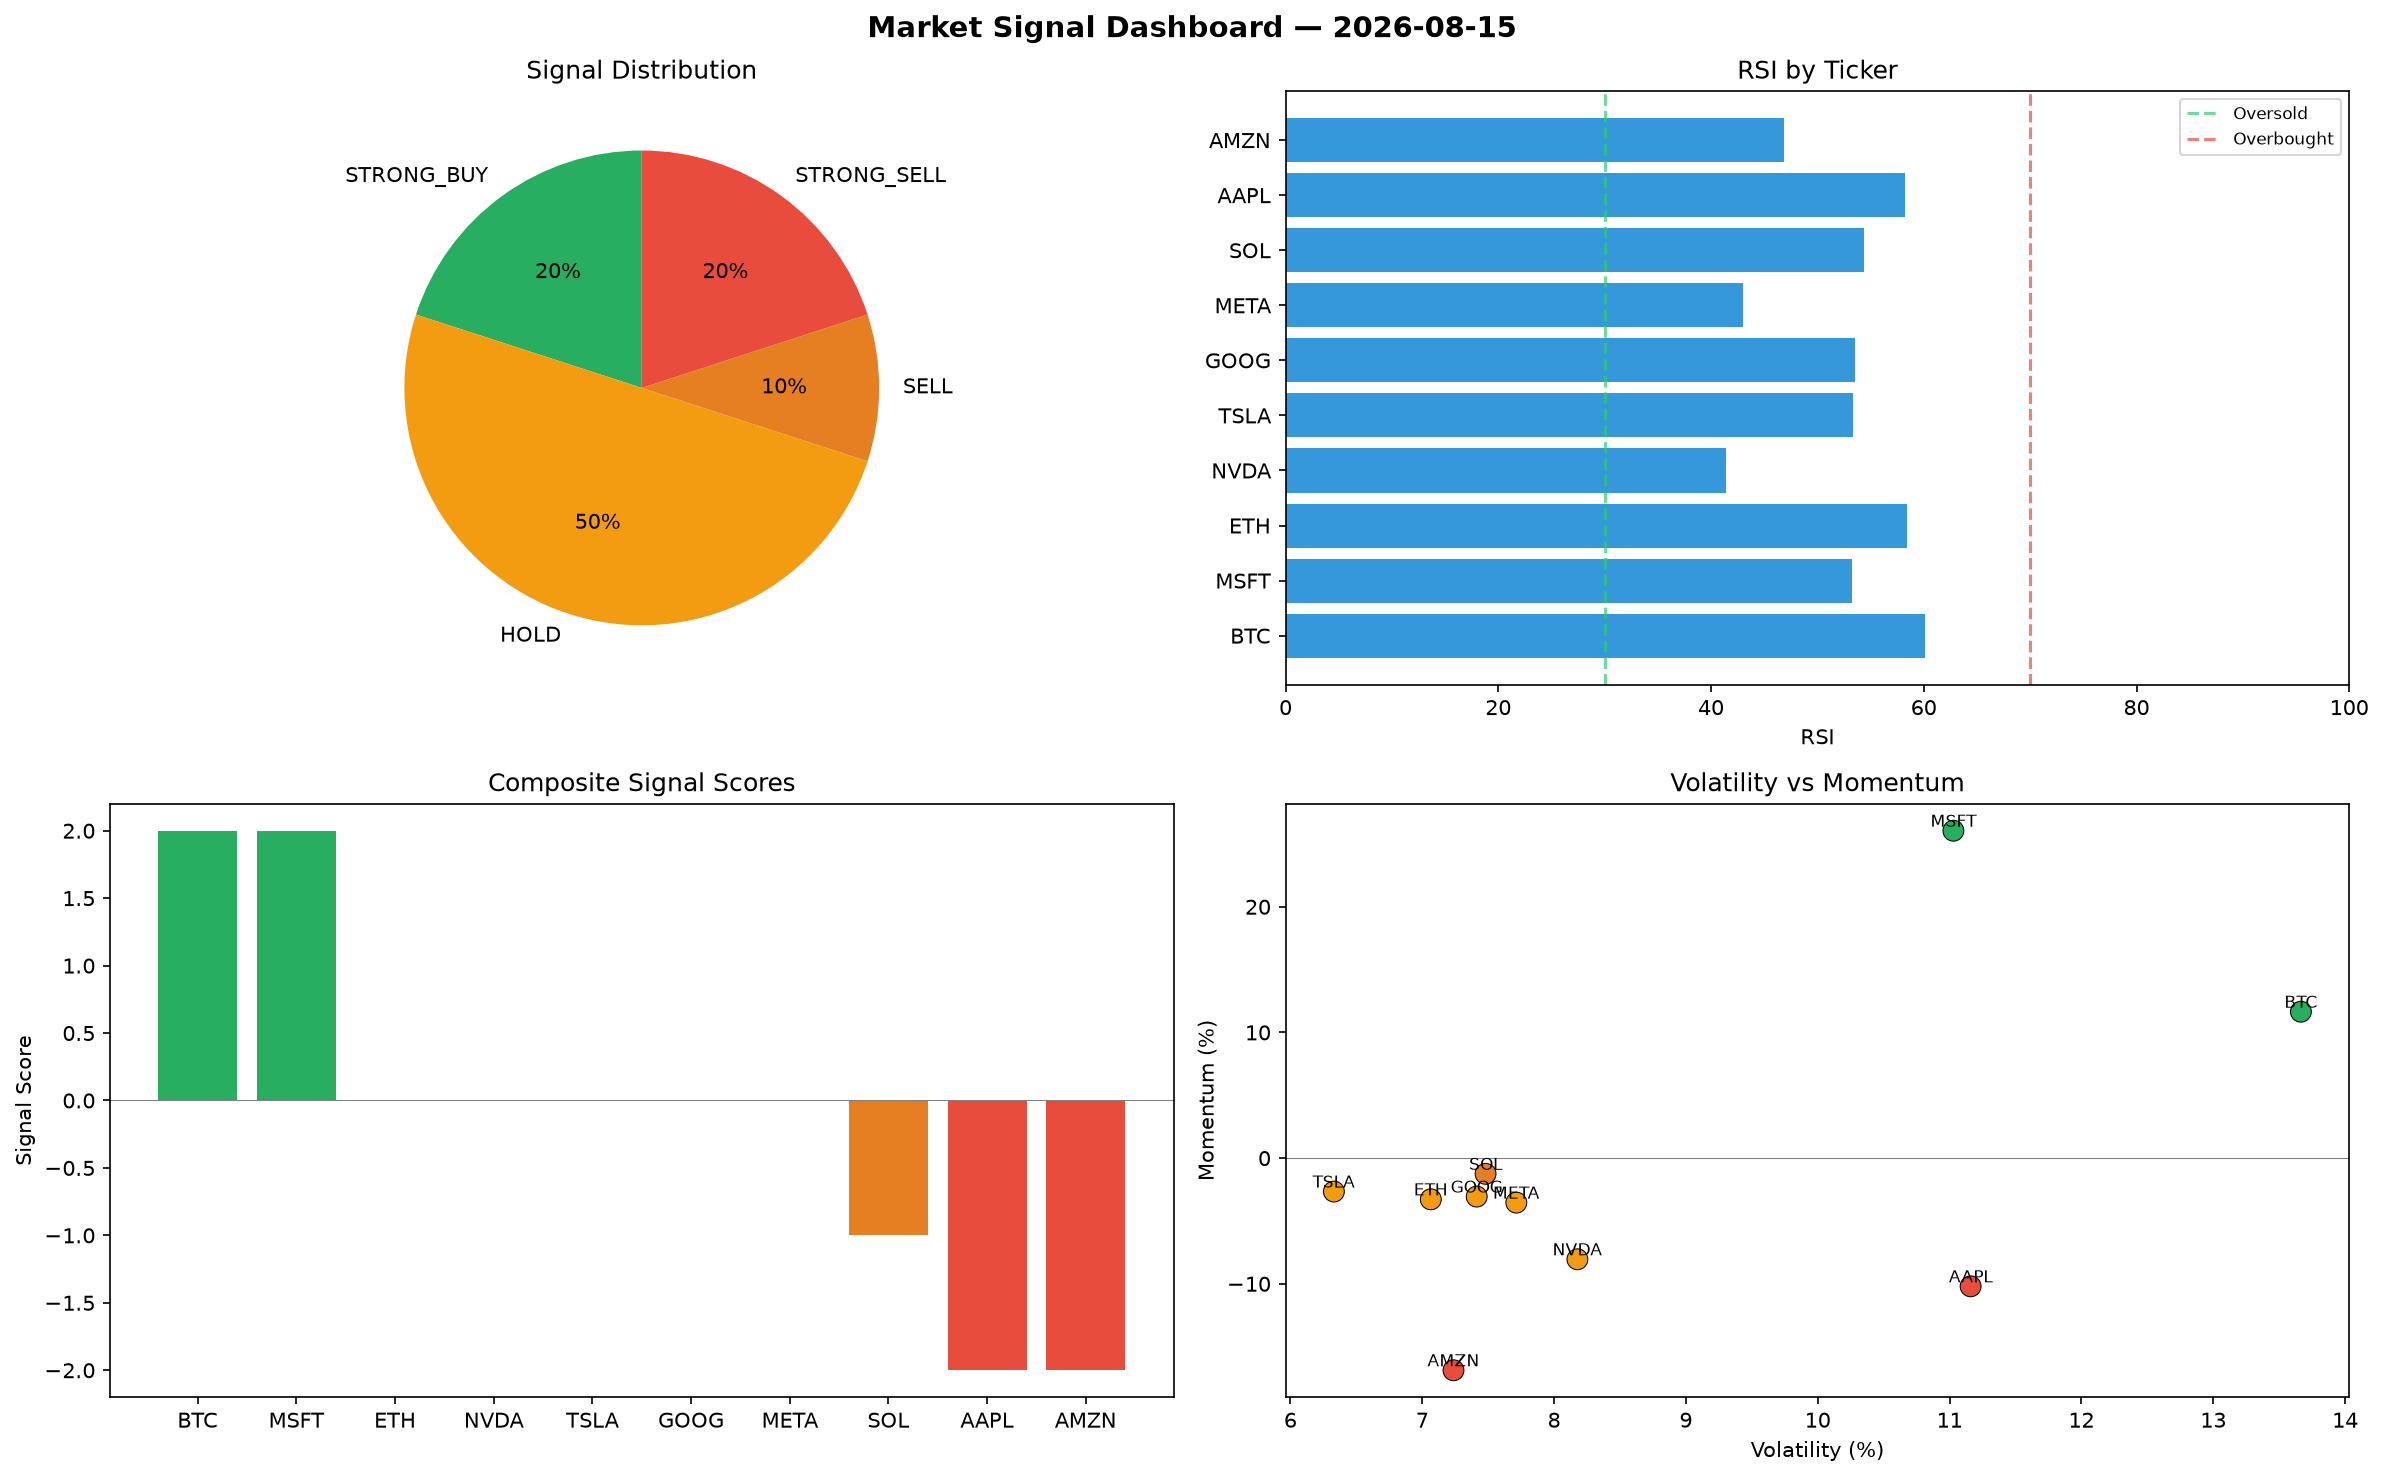
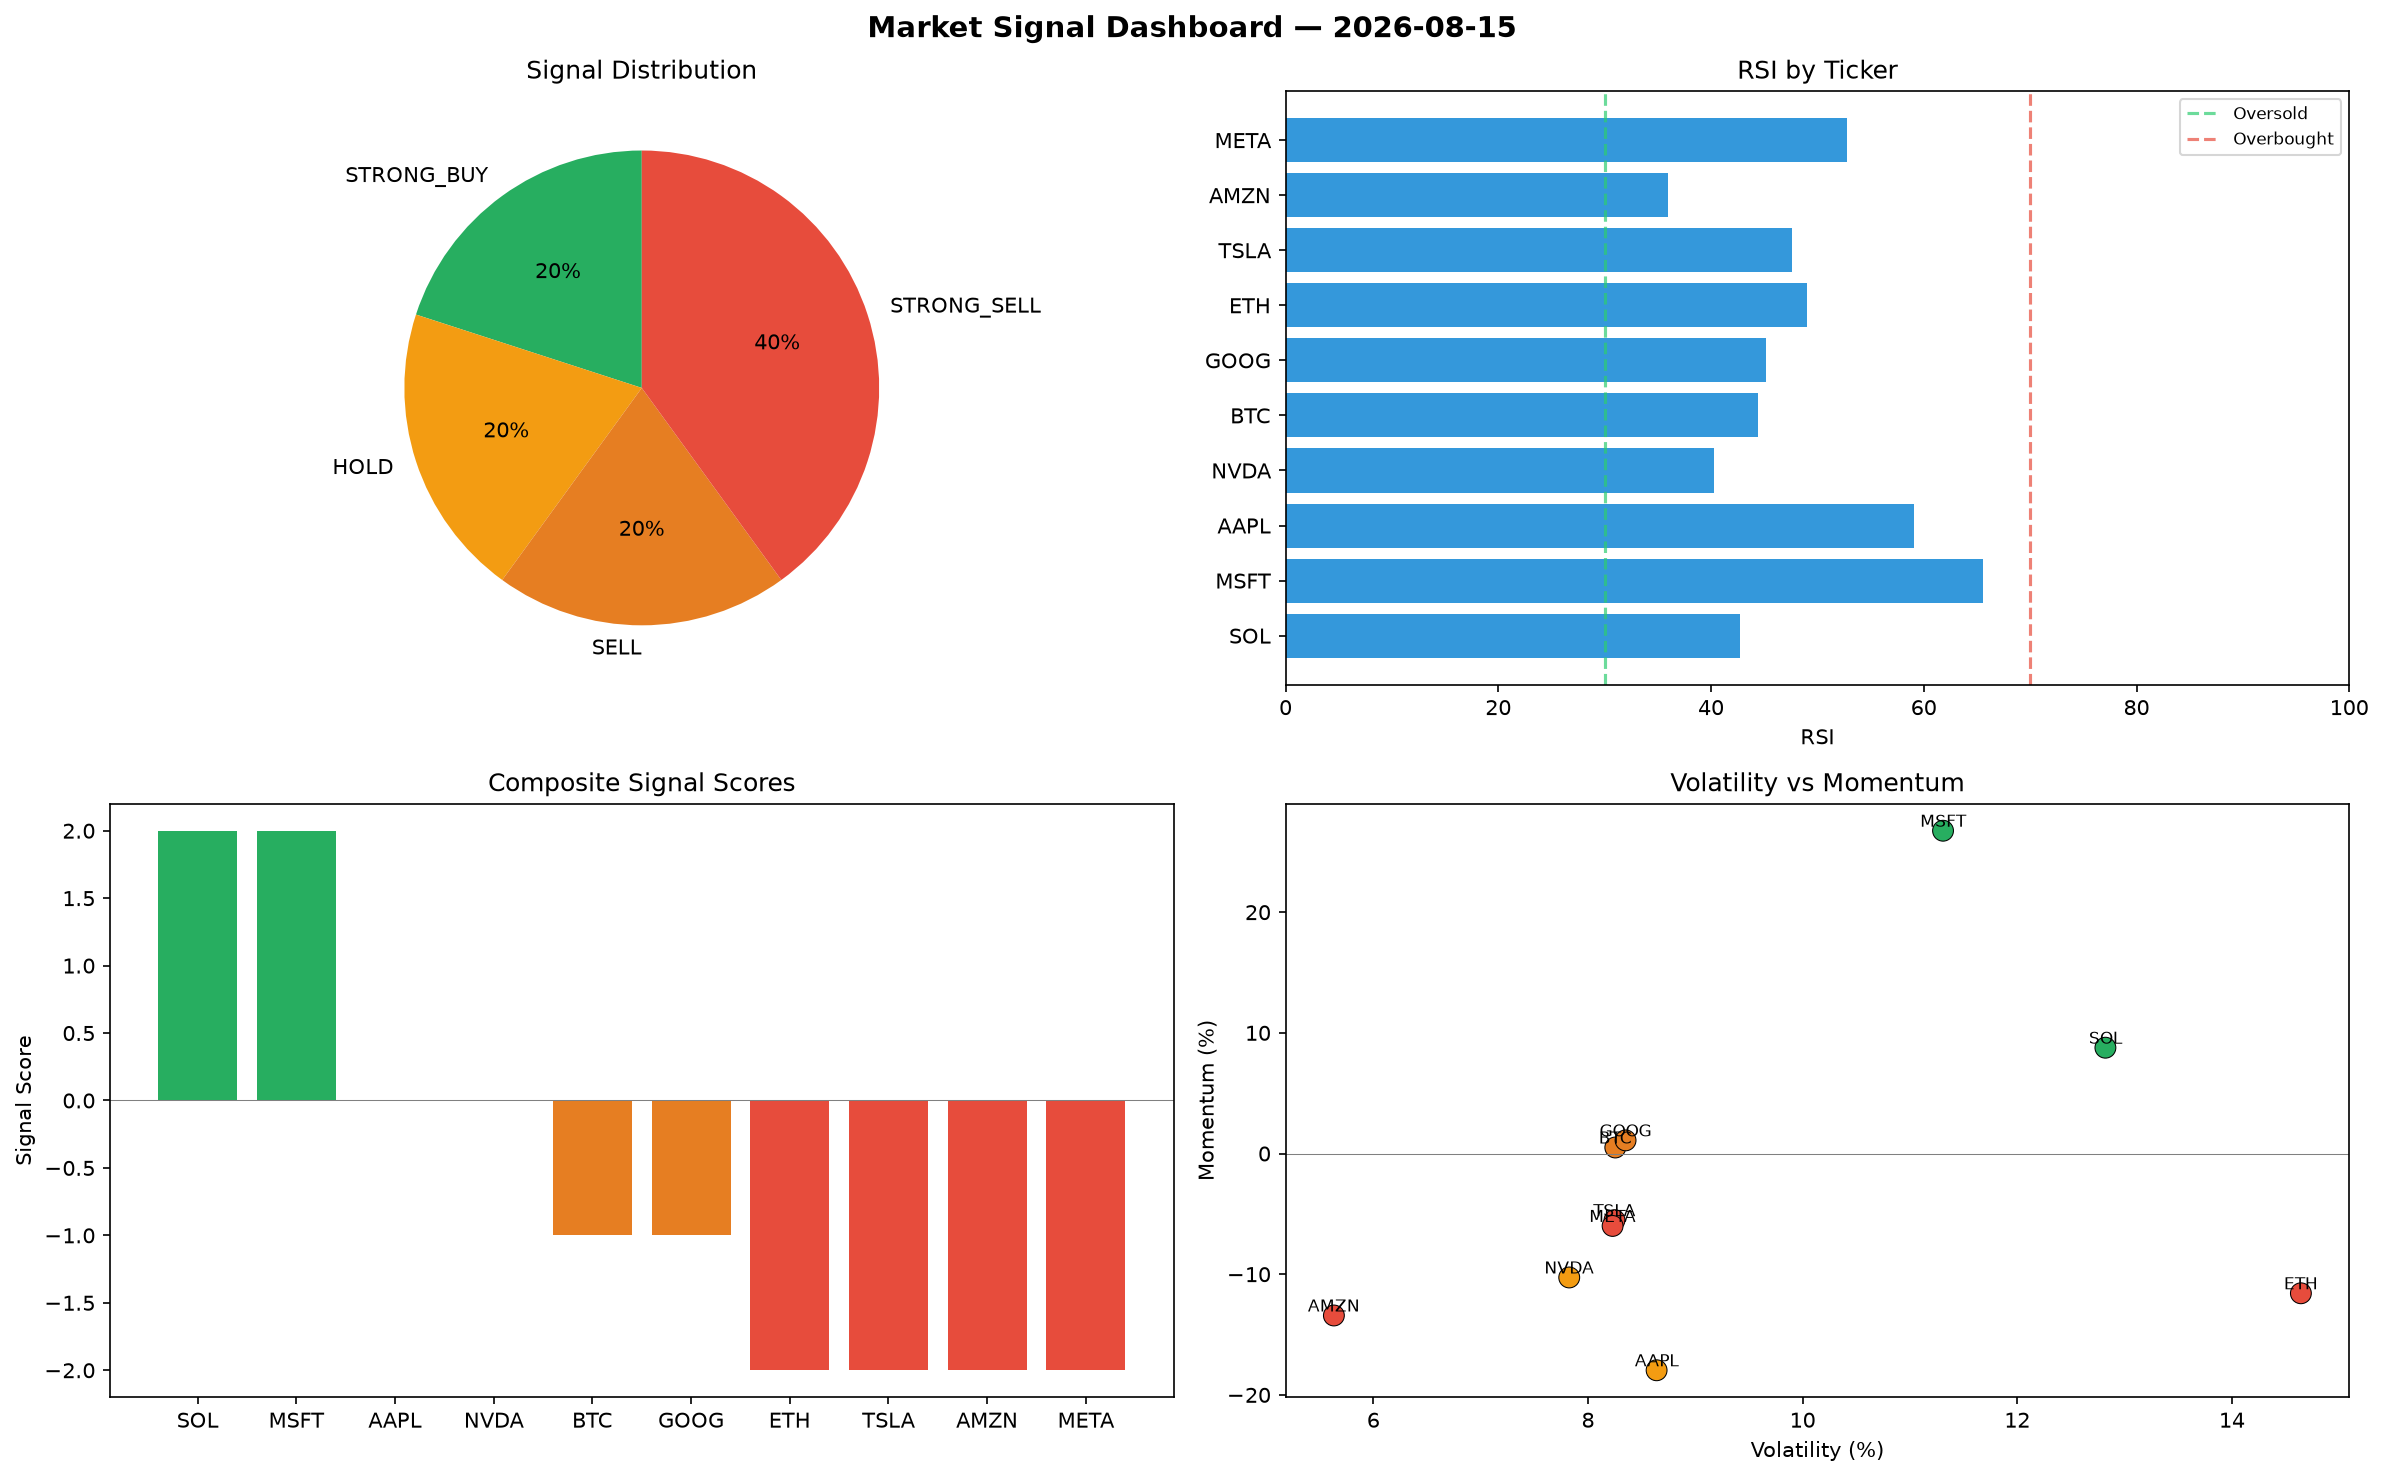
automated-bots: market signals 2026-08-15T08:53

diff --git a/logs/2026-08-15.md b/logs/2026-08-15.md
@@ -1,6 +1,6 @@
 # Market Signal Report — 2026-08-15
 
-**Run ID:** `de2ab59e58` | **Buy:** 2 | **Sell:** 3 | **Hold:** 5
+**Run ID:** `100f43d82c` | **Buy:** 2 | **Sell:** 6 | **Hold:** 2
 
 ![Dashboard](2026-08-15_dashboard.png)
 
@@ -8,28 +8,28 @@
 
 | Ticker | Price | Signal | Score | RSI | Momentum | Confidence |
 |--------|-------|--------|-------|-----|----------|------------|
-| BTC | $382.87 | **STRONG_BUY** | 2 | 60.07 | 0.1165 | 0.5 |
-| MSFT | $674.86 | **STRONG_BUY** | 2 | 53.29 | 0.2605 | 0.5 |
-| ETH | $254.74 | **HOLD** | 0 | 58.46 | -0.0328 | 0.0 |
-| NVDA | $3350.62 | **HOLD** | 0 | 41.41 | -0.0805 | 0.0 |
-| TSLA | $1457.47 | **HOLD** | 0 | 53.33 | -0.0266 | 0.0 |
-| GOOG | $4236.57 | **HOLD** | 0 | 53.5 | -0.0306 | 0.0 |
-| META | $4381.73 | **HOLD** | 0 | 43.04 | -0.0354 | 0.0 |
-| SOL | $451.51 | **SELL** | -1 | 54.36 | -0.0125 | 0.25 |
-| AAPL | $1447.27 | **STRONG_SELL** | -2 | 58.21 | -0.102 | 0.5 |
-| AMZN | $175.15 | **STRONG_SELL** | -2 | 46.86 | -0.1688 | 0.5 |
+| SOL | $2971.28 | **STRONG_BUY** | 2 | 42.75 | 0.0877 | 0.5 |
+| MSFT | $2480.89 | **STRONG_BUY** | 2 | 65.57 | 0.2675 | 0.5 |
+| AAPL | $288.35 | **HOLD** | 0 | 59.04 | -0.1796 | 0.0 |
+| NVDA | $183.58 | **HOLD** | 0 | 40.26 | -0.1027 | 0.0 |
+| BTC | $483.33 | **SELL** | -1 | 44.43 | 0.005 | 0.25 |
+| GOOG | $3376.42 | **SELL** | -1 | 45.14 | 0.0109 | 0.25 |
+| ETH | $1548.52 | **STRONG_SELL** | -2 | 49.05 | -0.1158 | 0.5 |
+| TSLA | $1083.53 | **STRONG_SELL** | -2 | 47.62 | -0.0552 | 0.5 |
+| AMZN | $2906.13 | **STRONG_SELL** | -2 | 35.95 | -0.1342 | 0.5 |
+| META | $1683.71 | **STRONG_SELL** | -2 | 52.78 | -0.06 | 0.5 |
 
 ## Delta vs Yesterday
 
 | Ticker | Today | Yesterday | Price Change | Signal Changed |
 |--------|-------|-----------|-------------|----------------|
-| BTC | STRONG_BUY | STRONG_BUY | 📉 -76.82% | — |
-| MSFT | STRONG_BUY | STRONG_SELL | 📉 -56.11% | ⚠ YES |
-| ETH | HOLD | STRONG_SELL | 📉 -59.45% | ⚠ YES |
-| NVDA | HOLD | HOLD | 📈 98.68% | — |
-| TSLA | HOLD | STRONG_BUY | 📉 -28.57% | ⚠ YES |
-| GOOG | HOLD | SELL | 📈 5609.66% | ⚠ YES |
-| META | HOLD | HOLD | 📈 261.52% | — |
-| SOL | SELL | STRONG_BUY | 📉 -66.24% | ⚠ YES |
-| AAPL | STRONG_SELL | SELL | 📉 -64.77% | ⚠ YES |
-| AMZN | STRONG_SELL | STRONG_SELL | 📉 -78.48% | — |
+| SOL | STRONG_BUY | STRONG_BUY | 📈 122.14% | — |
+| MSFT | STRONG_BUY | STRONG_SELL | 📈 61.35% | ⚠ YES |
+| AAPL | HOLD | SELL | 📉 -92.98% | ⚠ YES |
+| NVDA | HOLD | HOLD | 📉 -89.11% | — |
+| BTC | SELL | STRONG_BUY | 📉 -70.74% | ⚠ YES |
+| GOOG | SELL | SELL | 📈 4450.43% | — |
+| ETH | STRONG_SELL | STRONG_SELL | 📈 146.5% | — |
+| TSLA | STRONG_SELL | STRONG_BUY | 📉 -46.9% | ⚠ YES |
+| AMZN | STRONG_SELL | STRONG_SELL | 📈 257.01% | — |
+| META | STRONG_SELL | HOLD | 📈 38.92% | ⚠ YES |
